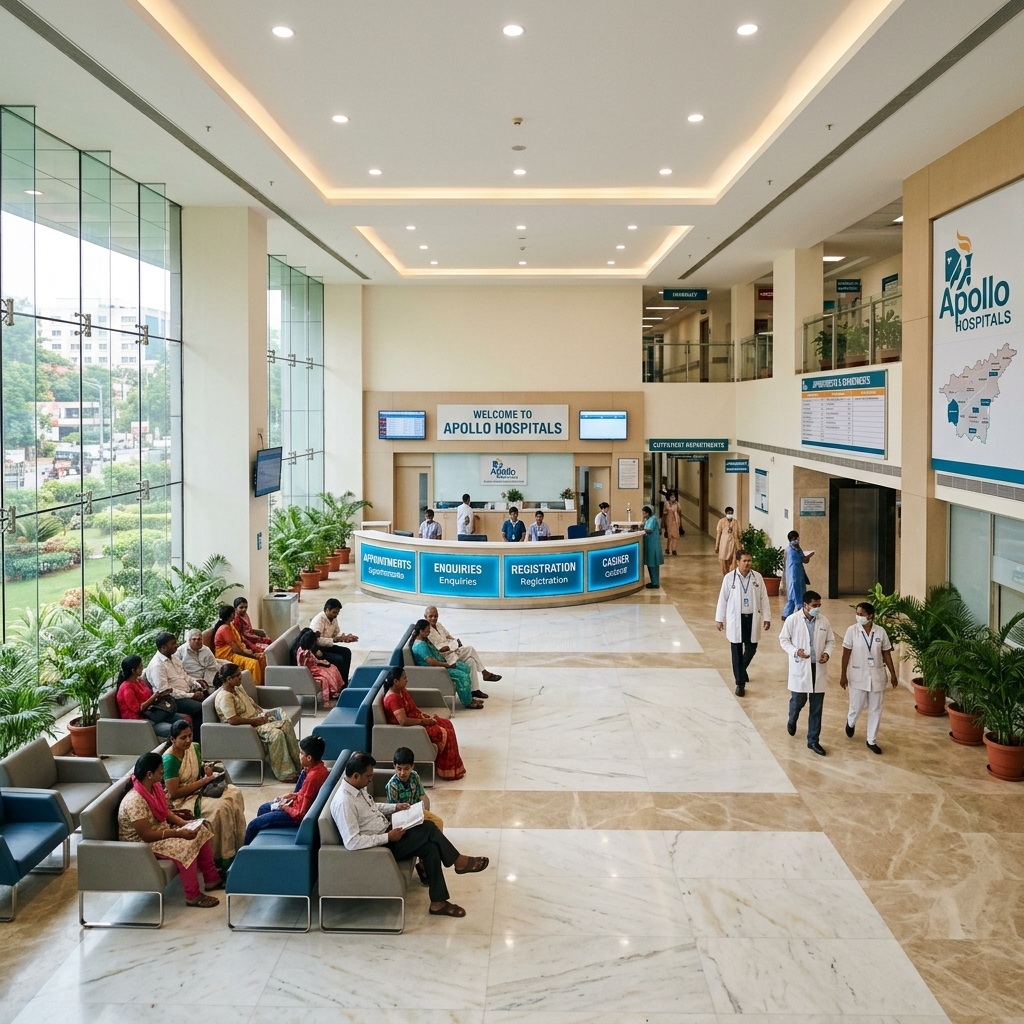
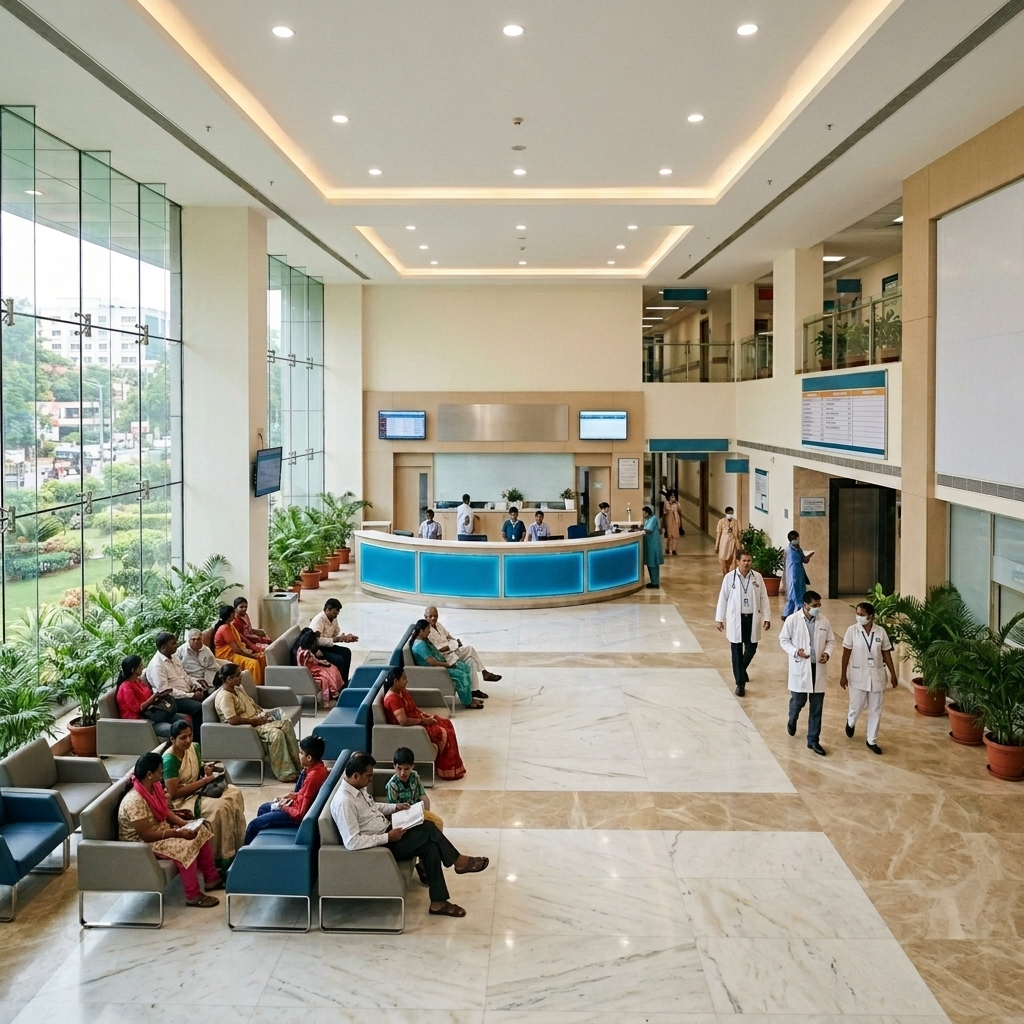
Fix: correct hero badge wrapping and overlap, and replace lobby image with text-cleaned branding-free version

diff --git a/hosp/templates/hosp/index.html b/hosp/templates/hosp/index.html
@@ -169,7 +169,7 @@
       margin-bottom: 1.5rem;
       letter-spacing: 0.5px;
     }
-    .hero-badge span { width: 6px; height: 6px; background: var(--blue-light); border-radius: 50%; animation: pulse-dot 1.8s infinite; }
+    .hero-badge span:first-child { width: 6px; height: 6px; background: var(--blue-light); border-radius: 50%; animation: pulse-dot 1.8s infinite; }
     @keyframes pulse-dot { 0%,100%{opacity:1;transform:scale(1)} 50%{opacity:0.5;transform:scale(0.7)} }
 
     .hero-title {
@@ -697,7 +697,7 @@
       title: "CureWell",
       register: "Register",
       login: "Login",
-      hero_badge: "Trusted Healthcare · Thanjavur, Tamil Nadu",
+      hero_badge: "Trusted Healthcare · Thanjavur",
       hero_title: `Compassionate Care,<br><span class="accent">Trusted Health.</span>`,
       hero_subtitle: "Serving Thanjavur since 2010 — quality medical care delivered with compassion, modern technology, and a patient-first approach.",
       book_btn: `<svg width="18" height="18" fill="none" stroke="currentColor" stroke-width="2.5" viewBox="0 0 24 24"><rect x="3" y="4" width="18" height="18" rx="2"/><line x1="16" y1="2" x2="16" y2="6"/><line x1="8" y1="2" x2="8" y2="6"/><line x1="3" y1="10" x2="21" y2="10"/></svg> Book Appointment`,
@@ -735,7 +735,7 @@
       title: "கியூர்வெல்",
       register: "பதிவு செய்யவும்",
       login: "உள்நுழைவு",
-      hero_badge: "நம்பகமான சுகாதாரம் · தஞ்சாவூர், தமிழ்நாடு",
+      hero_badge: "நம்பகமான சுகாதாரம் · தஞ்சாவூர்",
       hero_title: `இரக்கமுள்ள கவனிப்பு,<br><span class="accent">நம்பகமான ஆரோக்கியம்.</span>`,
       hero_subtitle: "2010 முதல் தஞ்சாவூரில் சேவை — இரக்கம், நவீன தொழில்நுட்பம் மற்றும் நோயாளி-முதல் அணுகுமுறையுடன் தரமான மருத்துவ சேவை.",
       book_btn: `<svg width="18" height="18" fill="none" stroke="currentColor" stroke-width="2.5" viewBox="0 0 24 24"><rect x="3" y="4" width="18" height="18" rx="2"/><line x1="16" y1="2" x2="16" y2="6"/><line x1="8" y1="2" x2="8" y2="6"/><line x1="3" y1="10" x2="21" y2="10"/></svg> அப்பாயின்ட்மெண்ட் பதிவு`,
